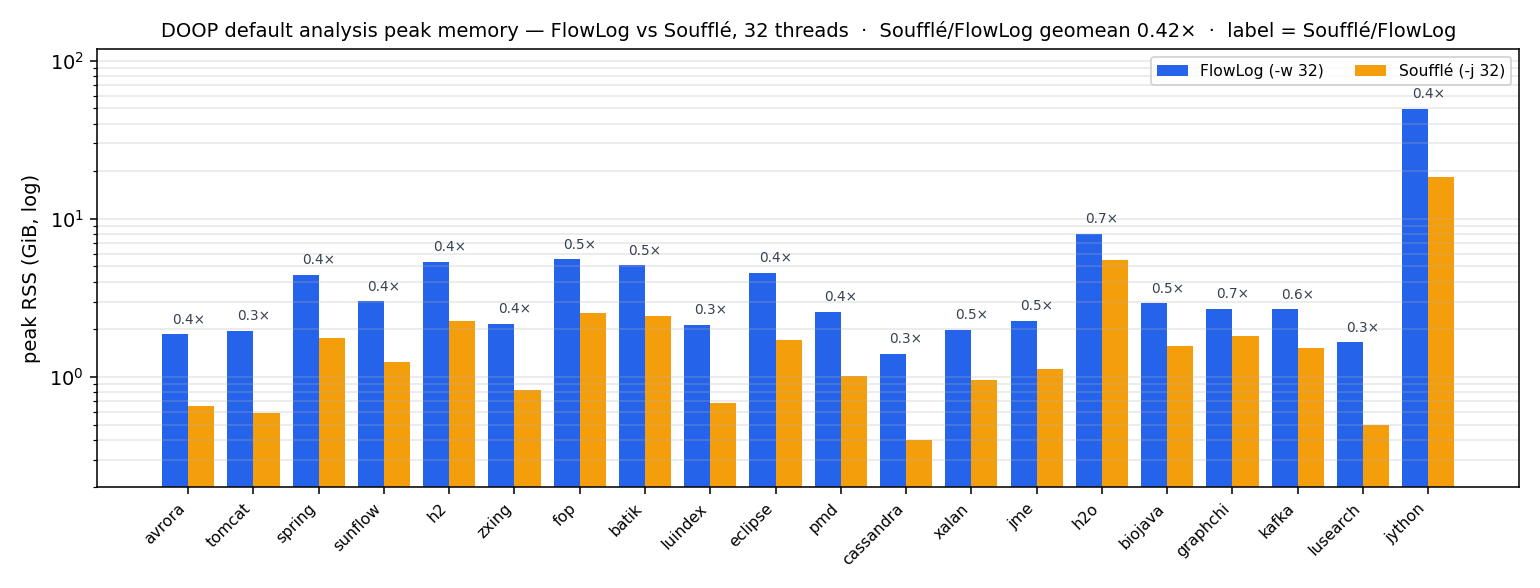
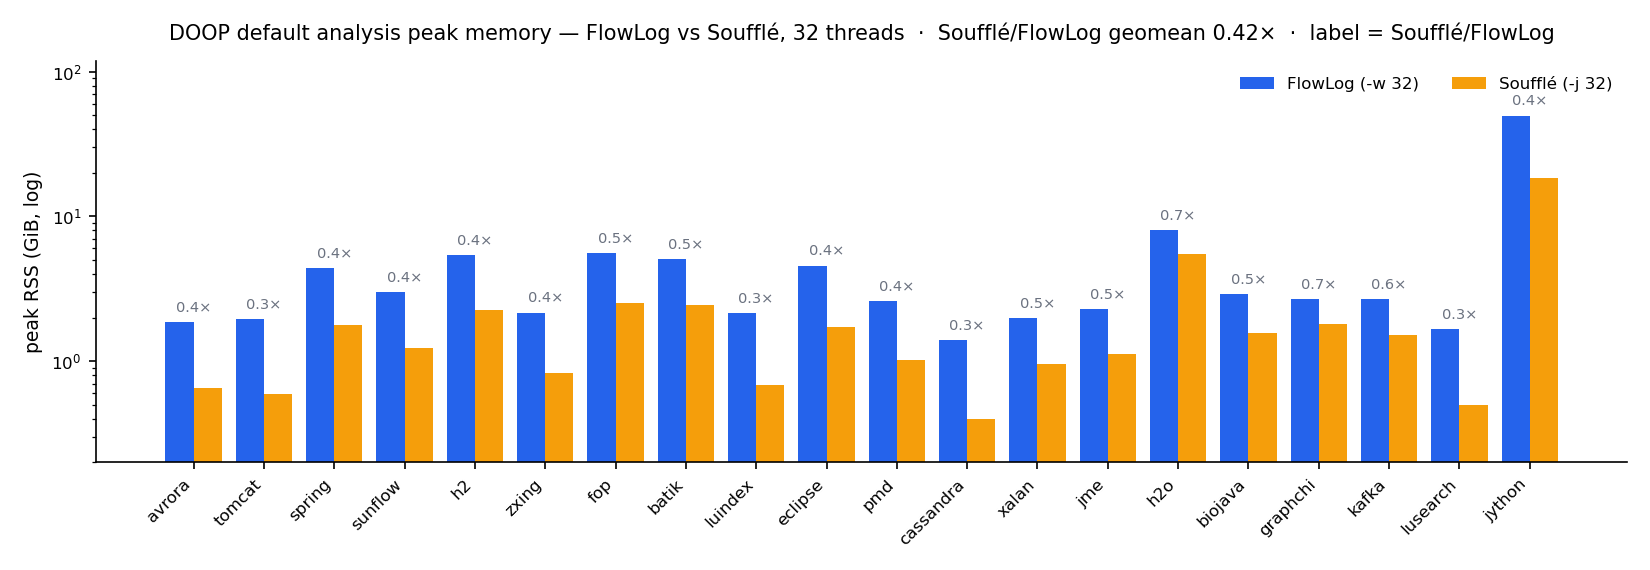
docs: cleaner gridless plots, trim README verbosity
Drop the y-gridlines and top/right spines from the benchmark plots
(frameless legend, tighter layout). Tighten prose throughout the README
(intro, Quick Start, Architecture bullets, Testing).

diff --git a/README.md b/README.md
@@ -25,11 +25,11 @@
 
 > **Status** · Under active development; interfaces may change without notice.
 
-Built on [Timely](https://github.com/TimelyDataflow/timely-dataflow) and [Differential Dataflow](https://github.com/TimelyDataflow/differential-dataflow), FlowLog pairs fast batch Datalog with first-class **incremental maintenance** — outputs update without recomputation as facts change. On the DOOP points-to analysis it runs **~2× faster than Soufflé** across all 20 DaCapo programs at 32 threads, with identical results.
+Built on [Timely](https://github.com/TimelyDataflow/timely-dataflow) and [Differential Dataflow](https://github.com/TimelyDataflow/differential-dataflow), FlowLog pairs batch Datalog with first-class **incremental maintenance** — outputs update without recomputation as facts change. On DOOP points-to it runs **~2× faster than Soufflé** across 20 DaCapo programs (32 threads), with identical results.
 
 ## Quick Start
 
-**1 — Install the toolchain.** One-time setup: installs a stable Rust toolchain (1.80+) and the required OS packages, then runs `cargo check --workspace` as a smoke test.
+**1 — Install the toolchain.** One-time setup — Rust (1.80+) and required OS packages, then a `cargo check` smoke test.
 
 ```bash
 $ bash env/env.sh     # Linux / macOS
@@ -42,7 +42,7 @@ PS> .\env\env.ps1     # Windows (elevated PowerShell)
 $ cargo build --release
 ```
 
-**3 — Run an example.** `example/graph_analysis/reach.dl` computes the nodes reachable from a seed set:
+**3 — Run an example.** `example/graph_analysis/reach.dl` — nodes reachable from a seed set:
 
 ```datalog
 .decl Source(id: int32)
@@ -56,7 +56,7 @@ Reach(y) :- Reach(x), Arc(x,y).
 .printsize Reach
 ```
 
-Create a tiny dataset, then compile and run it:
+Make a tiny dataset, then compile and run:
 
 ```bash
 $ mkdir -p reach
@@ -68,11 +68,11 @@ $ target/release/flowlog-compiler example/graph_analysis/reach.dl -F reach -o re
 $ ./reach_bin -w 4
 ```
 
-See [Compiler CLI](#compiler-cli) for every flag. Batch mode is shown here; for incremental mode and the profiler, see <https://www.flowlog-rs.com/>.
+Flag reference: [Compiler CLI](#compiler-cli). For incremental mode and the profiler, see <https://www.flowlog-rs.com/>.
 
 ## Architecture
 
-A `.dl` program compiles through five stages, with three side modules assisting the planner and codegen:
+A `.dl` program compiles through five stages; three side modules assist the planner and codegen:
 
 ```text
                                                    profiler
@@ -86,23 +86,23 @@ A `.dl` program compiles through five stages, with three side modules assisting 
 
 **Pipeline**
 
-- **parser** — reads `.dl` into a typed AST, each node tagged with its source location.
-- **typechecker** — resolves each literal's type (`1` → `int32`).
-- **stratifier** — groups rules into strata (one per `loop` / `fixpoint`) so recursion runs in order.
-- **planner** — lowers each rule to a Differential Dataflow plan, sharing common sub-plans to reuse arrangements.
+- **parser** — `.dl` → typed AST, each node source-located.
+- **typechecker** — resolves literal types (`1` → `int32`).
+- **stratifier** — groups rules into strata (one per `loop` / `fixpoint`) for ordered recursion.
+- **planner** — lowers rules to a Differential Dataflow plan, sharing sub-plans to reuse arrangements.
 - **codegen** — emits the plan as Timely + Differential Dataflow Rust.
 
 **Side modules**
 
-- **catalog** — supplies the planner with per-rule metadata (signatures, pushdown filters, range checks).
-- **optimizer** — gives the planner cardinality-based join ordering and worst-case optimal joins (WIP).
-- **profiler** — instruments codegen to collect runtime metrics from Timely / Differential Dataflow operators.
+- **catalog** — per-rule metadata for the planner (signatures, pushdown filters, range checks).
+- **optimizer** — cardinality-based join ordering and worst-case optimal joins (WIP).
+- **profiler** — runtime metrics from Timely / Differential Dataflow operators.
 
 **Crates**
 
-- **`flowlog-build`** — library; call from `build.rs` to compile `.dl` to Rust at build time.
-- **`flowlog-compiler`** — CLI; compiles `.dl` into a standalone executable.
-- **`flowlog-runtime`** — linked into the generated output (interning, IO, sort/merge, incremental-txn state); not a direct dependency.
+- **`flowlog-build`** — library; compile `.dl` to Rust from `build.rs`.
+- **`flowlog-compiler`** — CLI; compile `.dl` to a standalone executable.
+- **`flowlog-runtime`** — linked into output (interning, IO, sort/merge, incremental-txn state); not a direct dep.
 
 ## Compiler CLI
 
@@ -127,7 +127,7 @@ A green oracle run is the definition of correct — see [`tests/README.md`](test
 
 ### FlowLog vs Soufflé — DOOP points-to
 
-An apple-to-apple comparison on the DOOP **default** points-to analysis (`doop/default.dl`) across all 20 [DaCapo](https://www.dacapobench.org/) programs. Both engines run on **32 threads** (FlowLog `-w 32`; Soufflé compiled and run with `-j 32`) over identical tab-delimited facts. The Soufflé program is the *same* `default.dl` with only type-keyword renames (`:string`→`:symbol`, `:int32`→`:number`) — identical rules and written join order, so the numbers reflect the engine. All 20 programs produce **identical VarPointsTo**.
+Apple-to-apple on the DOOP **default** points-to analysis (`doop/default.dl`) across all 20 [DaCapo](https://www.dacapobench.org/) programs at **32 threads** (FlowLog `-w 32`, Soufflé `-j 32`). The Soufflé program is the same `default.dl` with only type-keyword renames (`:string`→`:symbol`, `:int32`→`:number`) — identical rules and join order. All 20 produce **identical VarPointsTo**.
 
 ![DOOP run time — FlowLog vs Soufflé](docs/doop-time.png)
 
@@ -136,7 +136,7 @@ An apple-to-apple comparison on the DOOP **default** points-to analysis (`doop/d
 - **Run time** (run only; one-off compile excluded) — FlowLog faster on **20/20**, geomean **1.95×** (range 1.41–3.27×).
 - **Peak memory** — Soufflé is leaner: Soufflé/FlowLog geomean **0.42×** (FlowLog trades memory for speed).
 
-Full methodology and per-program numbers live in [`flowlog-bench`](https://github.com/flowlog-rs/flowlog-bench).
+Full methodology and numbers: [`flowlog-bench`](https://github.com/flowlog-rs/flowlog-bench).
 
 ## Publication
 